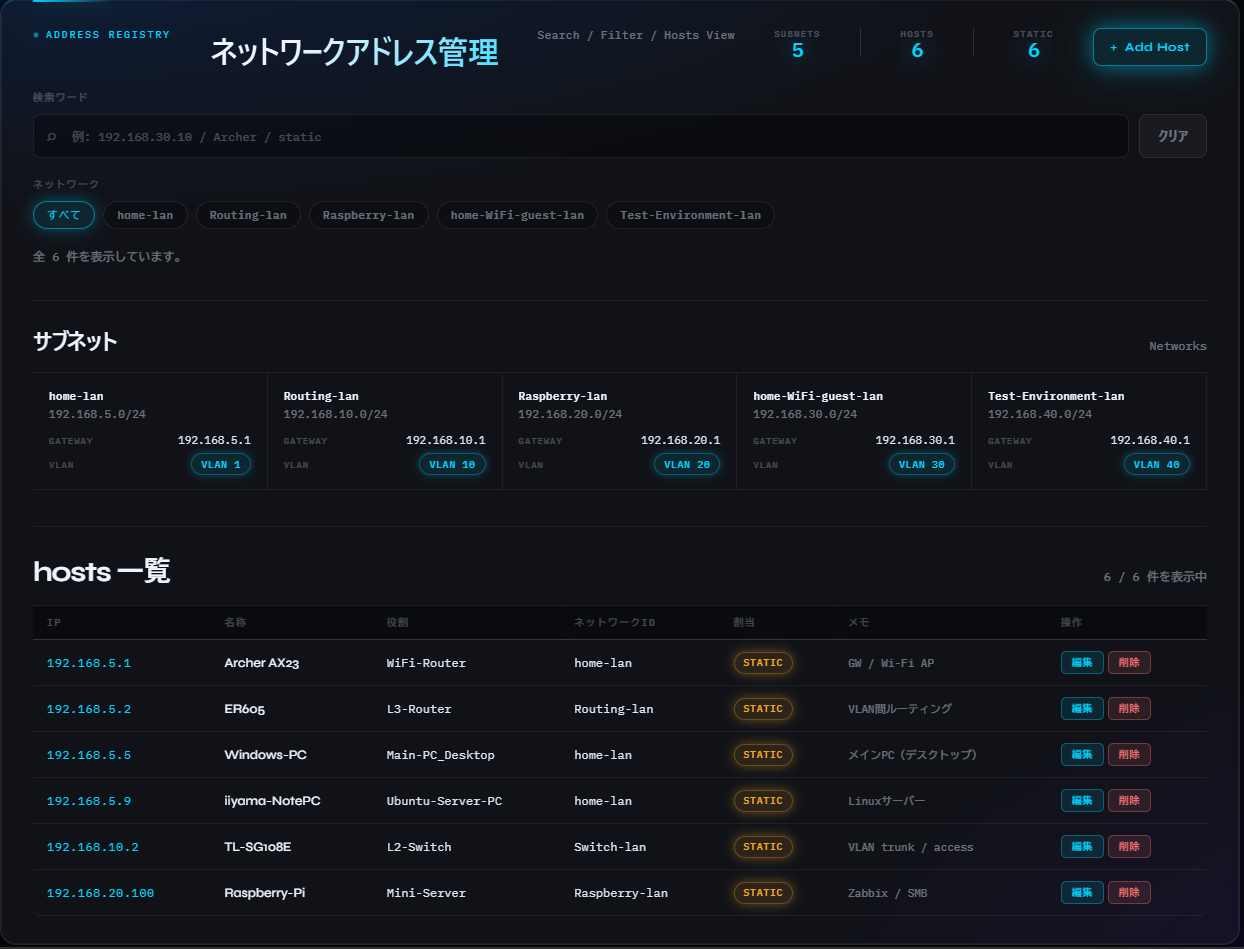
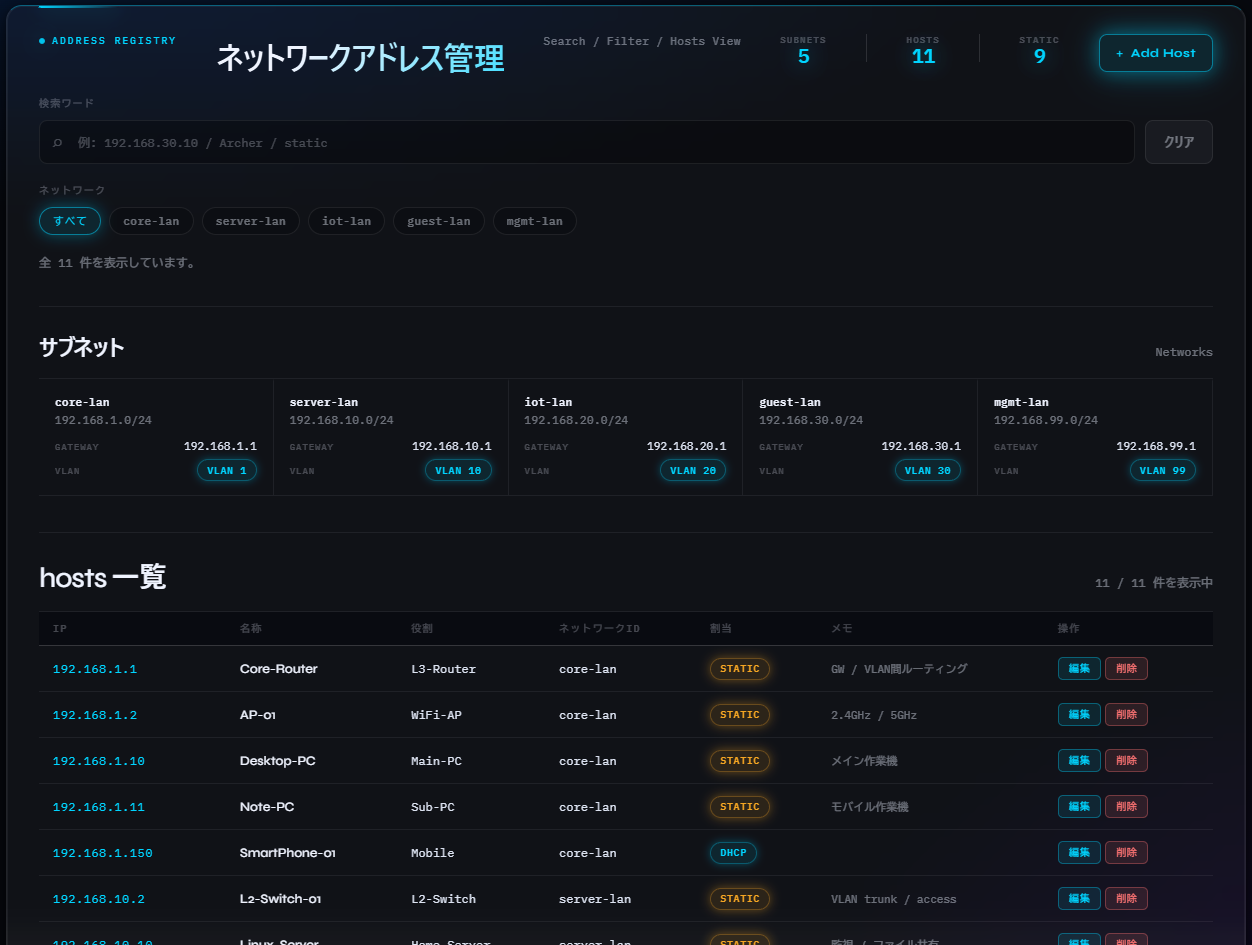
ネットワークアドレス管理表 Version1.0.0

diff --git a/index.html b/index.html
@@ -169,91 +169,145 @@
   {
     "networks": [
       {
-        "id": "home-lan",
-        "cidr": "192.168.5.0/24",
+        "id": "core-lan",
+        "cidr": "192.168.1.0/24",
         "vlan_id": 1,
-        "gateway": "192.168.5.1",
+        "gateway": "192.168.1.1",
         "dhcp": {
           "enabled": true,
           "range": {
-            "start": "192.168.5.100",
-            "end": "192.168.5.199"
+            "start": "192.168.1.100",
+            "end": "192.168.1.199"
           }
         }
       },
       {
-      "id": "Routing-lan",
-      "cidr": "192.168.10.0/24",
-      "vlan_id": 10,
-      "gateway": "192.168.10.1"
+        "id": "server-lan",
+        "cidr": "192.168.10.0/24",
+        "vlan_id": 10,
+        "gateway": "192.168.10.1"
       },
       {
-      "id": "Raspberry-lan",
-      "cidr": "192.168.20.0/24",
-      "vlan_id": 20,
-      "gateway": "192.168.20.1"
+        "id": "iot-lan",
+        "cidr": "192.168.20.0/24",
+        "vlan_id": 20,
+        "gateway": "192.168.20.1",
+        "dhcp": {
+          "enabled": true,
+          "range": {
+            "start": "192.168.20.100",
+            "end": "192.168.20.199"
+          }
+        }
       },
       {
-      "id": "home-WiFi-guest-lan",
-      "cidr": "192.168.30.0/24",
-      "vlan_id": 30,
-      "gateway": "192.168.30.1"
+        "id": "guest-lan",
+        "cidr": "192.168.30.0/24",
+        "vlan_id": 30,
+        "gateway": "192.168.30.1",
+        "dhcp": {
+          "enabled": true,
+          "range": {
+            "start": "192.168.30.100",
+            "end": "192.168.30.199"
+          }
+        }
       },
       {
-      "id": "Test-Environment-lan",
-      "cidr": "192.168.40.0/24",
-      "vlan_id": 40,
-      "gateway": "192.168.40.1"
+        "id": "mgmt-lan",
+        "cidr": "192.168.99.0/24",
+        "vlan_id": 99,
+        "gateway": "192.168.99.1"
       }
     ],
     "hosts": [
       {
-        "ip": "192.168.5.1",
-        "name": "Archer AX23",
-        "role": "WiFi-Router",
-        "network_id": "home-lan",
-        "assign": "static",
-        "note": "GW / Wi-Fi AP"
-      },
-      {
-        "ip": "192.168.5.2",
-        "name": "ER605",
+        "ip": "192.168.1.1",
+        "name": "Core-Router",
         "role": "L3-Router",
-        "network_id": "Routing-lan",
+        "network_id": "core-lan",
         "assign": "static",
-        "note": "VLAN間ルーティング"
+        "note": "GW / VLAN間ルーティング"
       },
       {
-        "ip": "192.168.5.5",
-        "name": "Windows-PC",
-        "role": "Main-PC_Desktop",
-        "network_id": "home-lan",
+        "ip": "192.168.1.2",
+        "name": "AP-01",
+        "role": "WiFi-AP",
+        "network_id": "core-lan",
         "assign": "static",
-        "note": "メインPC（デスクトップ）"
+        "note": "2.4GHz / 5GHz"
       },
       {
-        "ip": "192.168.5.9",
-        "name": "iiyama-NotePC",
-        "role": "Ubuntu-Server-PC",
-        "network_id": "home-lan",
+        "ip": "192.168.1.10",
+        "name": "Desktop-PC",
+        "role": "Main-PC",
+        "network_id": "core-lan",
         "assign": "static",
-        "note": "Linuxサーバー"
+        "note": "メイン作業機"
+      },
+      {
+        "ip": "192.168.1.11",
+        "name": "Note-PC",
+        "role": "Sub-PC",
+        "network_id": "core-lan",
+        "assign": "static",
+        "note": "モバイル作業機"
+      },
+      {
+        "ip": "192.168.1.150",
+        "name": "SmartPhone-01",
+        "role": "Mobile",
+        "network_id": "core-lan",
+        "assign": "dhcp",
+        "note": ""
       },
       {
         "ip": "192.168.10.2",
-        "name": "TL-SG108E",
+        "name": "L2-Switch-01",
         "role": "L2-Switch",
-        "network_id": "Switch-lan",
+        "network_id": "server-lan",
         "assign": "static",
         "note": "VLAN trunk / access"
       },
       {
-        "ip": "192.168.20.100",
-        "name": "Raspberry-Pi",
-        "role": "Mini-Server",
-        "network_id": "Raspberry-lan",
+        "ip": "192.168.10.10",
+        "name": "Linux-Server",
+        "role": "Home-Server",
+        "network_id": "server-lan",
         "assign": "static",
-        "note": "Zabbix / SMB"
+        "note": "監視 / ファイル共有"
+      },
+      {
+        "ip": "192.168.10.11",
+        "name": "NAS-01",
+        "role": "NAS",
+        "network_id": "server-lan",
+        "assign": "static",
+        "note": "バックアップ用"
+      },
+      {
+        "ip": "192.168.20.101",
+        "name": "SmartTV-01",
+        "role": "IoT-Device",
+        "network_id": "iot-lan",
+        "assign": "dhcp",
+        "note": ""
+      },
+      {
+        "ip": "192.168.20.102",
+        "name": "IP-Camera-01",
+        "role": "IoT-Device",
+        "network_id": "iot-lan",
+        "assign": "static",
+        "note": "屋内カメラ"
+      },
+      {
+        "ip": "192.168.99.2",
+        "name": "SW-Mgmt",
+        "role": "L2-Switch",
+        "network_id": "mgmt-lan",
+        "assign": "static",
+        "note": "管理インターフェース"
       }
     ]
   }

diff --git a/style.css b/style.css
@@ -220,14 +220,15 @@ h1 {
   margin: 0;
   font-family: var(--font-display);
   font-size: clamp(1.1rem, 1.8vw, 1.45rem);
-  font-weight: 700;
-  letter-spacing: -0.03em;
+  font-weight: 500;
+  letter-spacing: -0.02em;
   color: var(--text-bright);
 }
 
 .section-heading-primary h2 {
   font-size: clamp(1.3rem, 2.2vw, 1.75rem);
-  letter-spacing: -0.04em;
+  font-weight: 500;
+  letter-spacing: -0.03em;
 }
 
 .section-meta,

diff --git a/ネットワークアドレス管理_データ追加手順.md b/ネットワークアドレス管理_データ追加手順.md
@@ -125,7 +125,7 @@ VLANなしの例:
   "hosts": [
     {
       "ip": "192.168.30.10",
-      "name": "Archer AX23",
+      "name": "Core-Router",
       "role": "wifi-router",
       "network_id": "home-lan",
       "assign": "static",